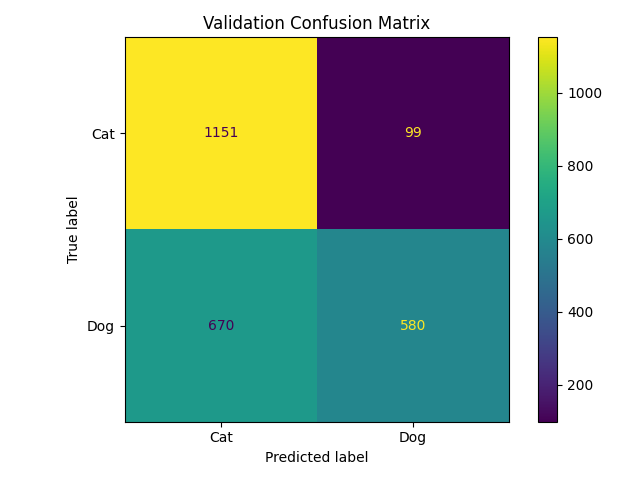
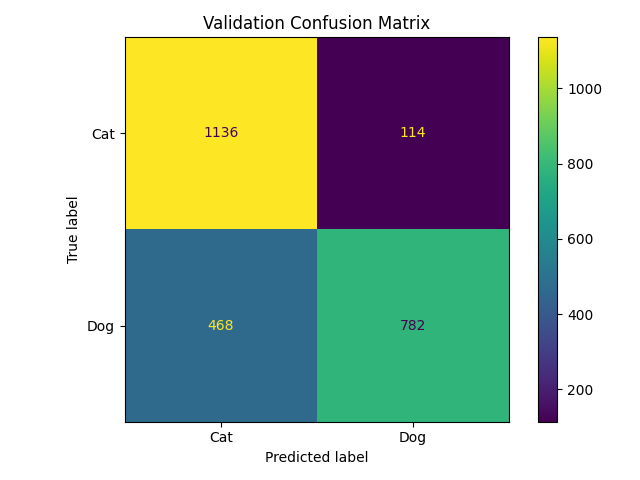
Improve CNN and retrain for 4 epochs

diff --git a/src/model.py b/src/model.py
@@ -3,21 +3,33 @@ import torch.nn as nn
 
 
 class SimpleCNN(nn.Module):
-    """Simple CNN baseline for Cats vs Dogs classification."""
+    """CNN model for Cats vs Dogs image classification."""
 
     def __init__(self, num_classes=2):
         super().__init__()
 
         self.features = nn.Sequential(
+            # Block 1
             nn.Conv2d(3, 32, kernel_size=3, padding=1),
+            nn.BatchNorm2d(32),
             nn.ReLU(),
             nn.MaxPool2d(2),
 
+            # Block 2
             nn.Conv2d(32, 64, kernel_size=3, padding=1),
+            nn.BatchNorm2d(64),
             nn.ReLU(),
             nn.MaxPool2d(2),
 
+            # Block 3
             nn.Conv2d(64, 128, kernel_size=3, padding=1),
+            nn.BatchNorm2d(128),
+            nn.ReLU(),
+            nn.MaxPool2d(2),
+
+            # Block 4
+            nn.Conv2d(128, 256, kernel_size=3, padding=1),
+            nn.BatchNorm2d(256),
             nn.ReLU(),
             nn.MaxPool2d(2),
 
@@ -26,7 +38,8 @@ class SimpleCNN(nn.Module):
 
         self.classifier = nn.Sequential(
             nn.Flatten(),
-            nn.Linear(128, num_classes),
+            nn.Dropout(p=0.4),
+            nn.Linear(256, num_classes),
         )
 
     def forward(self, x):

diff --git a/src/train.py b/src/train.py
@@ -21,7 +21,7 @@ from src.model import SimpleCNN
 RANDOM_STATE = 42
 BATCH_SIZE = 32
 LEARNING_RATE = 0.001
-EPOCHS = 3
+EPOCHS = 4
 NUM_CLASSES = 2
 
 TRAIN_CSV = "data/processed/train.csv"
